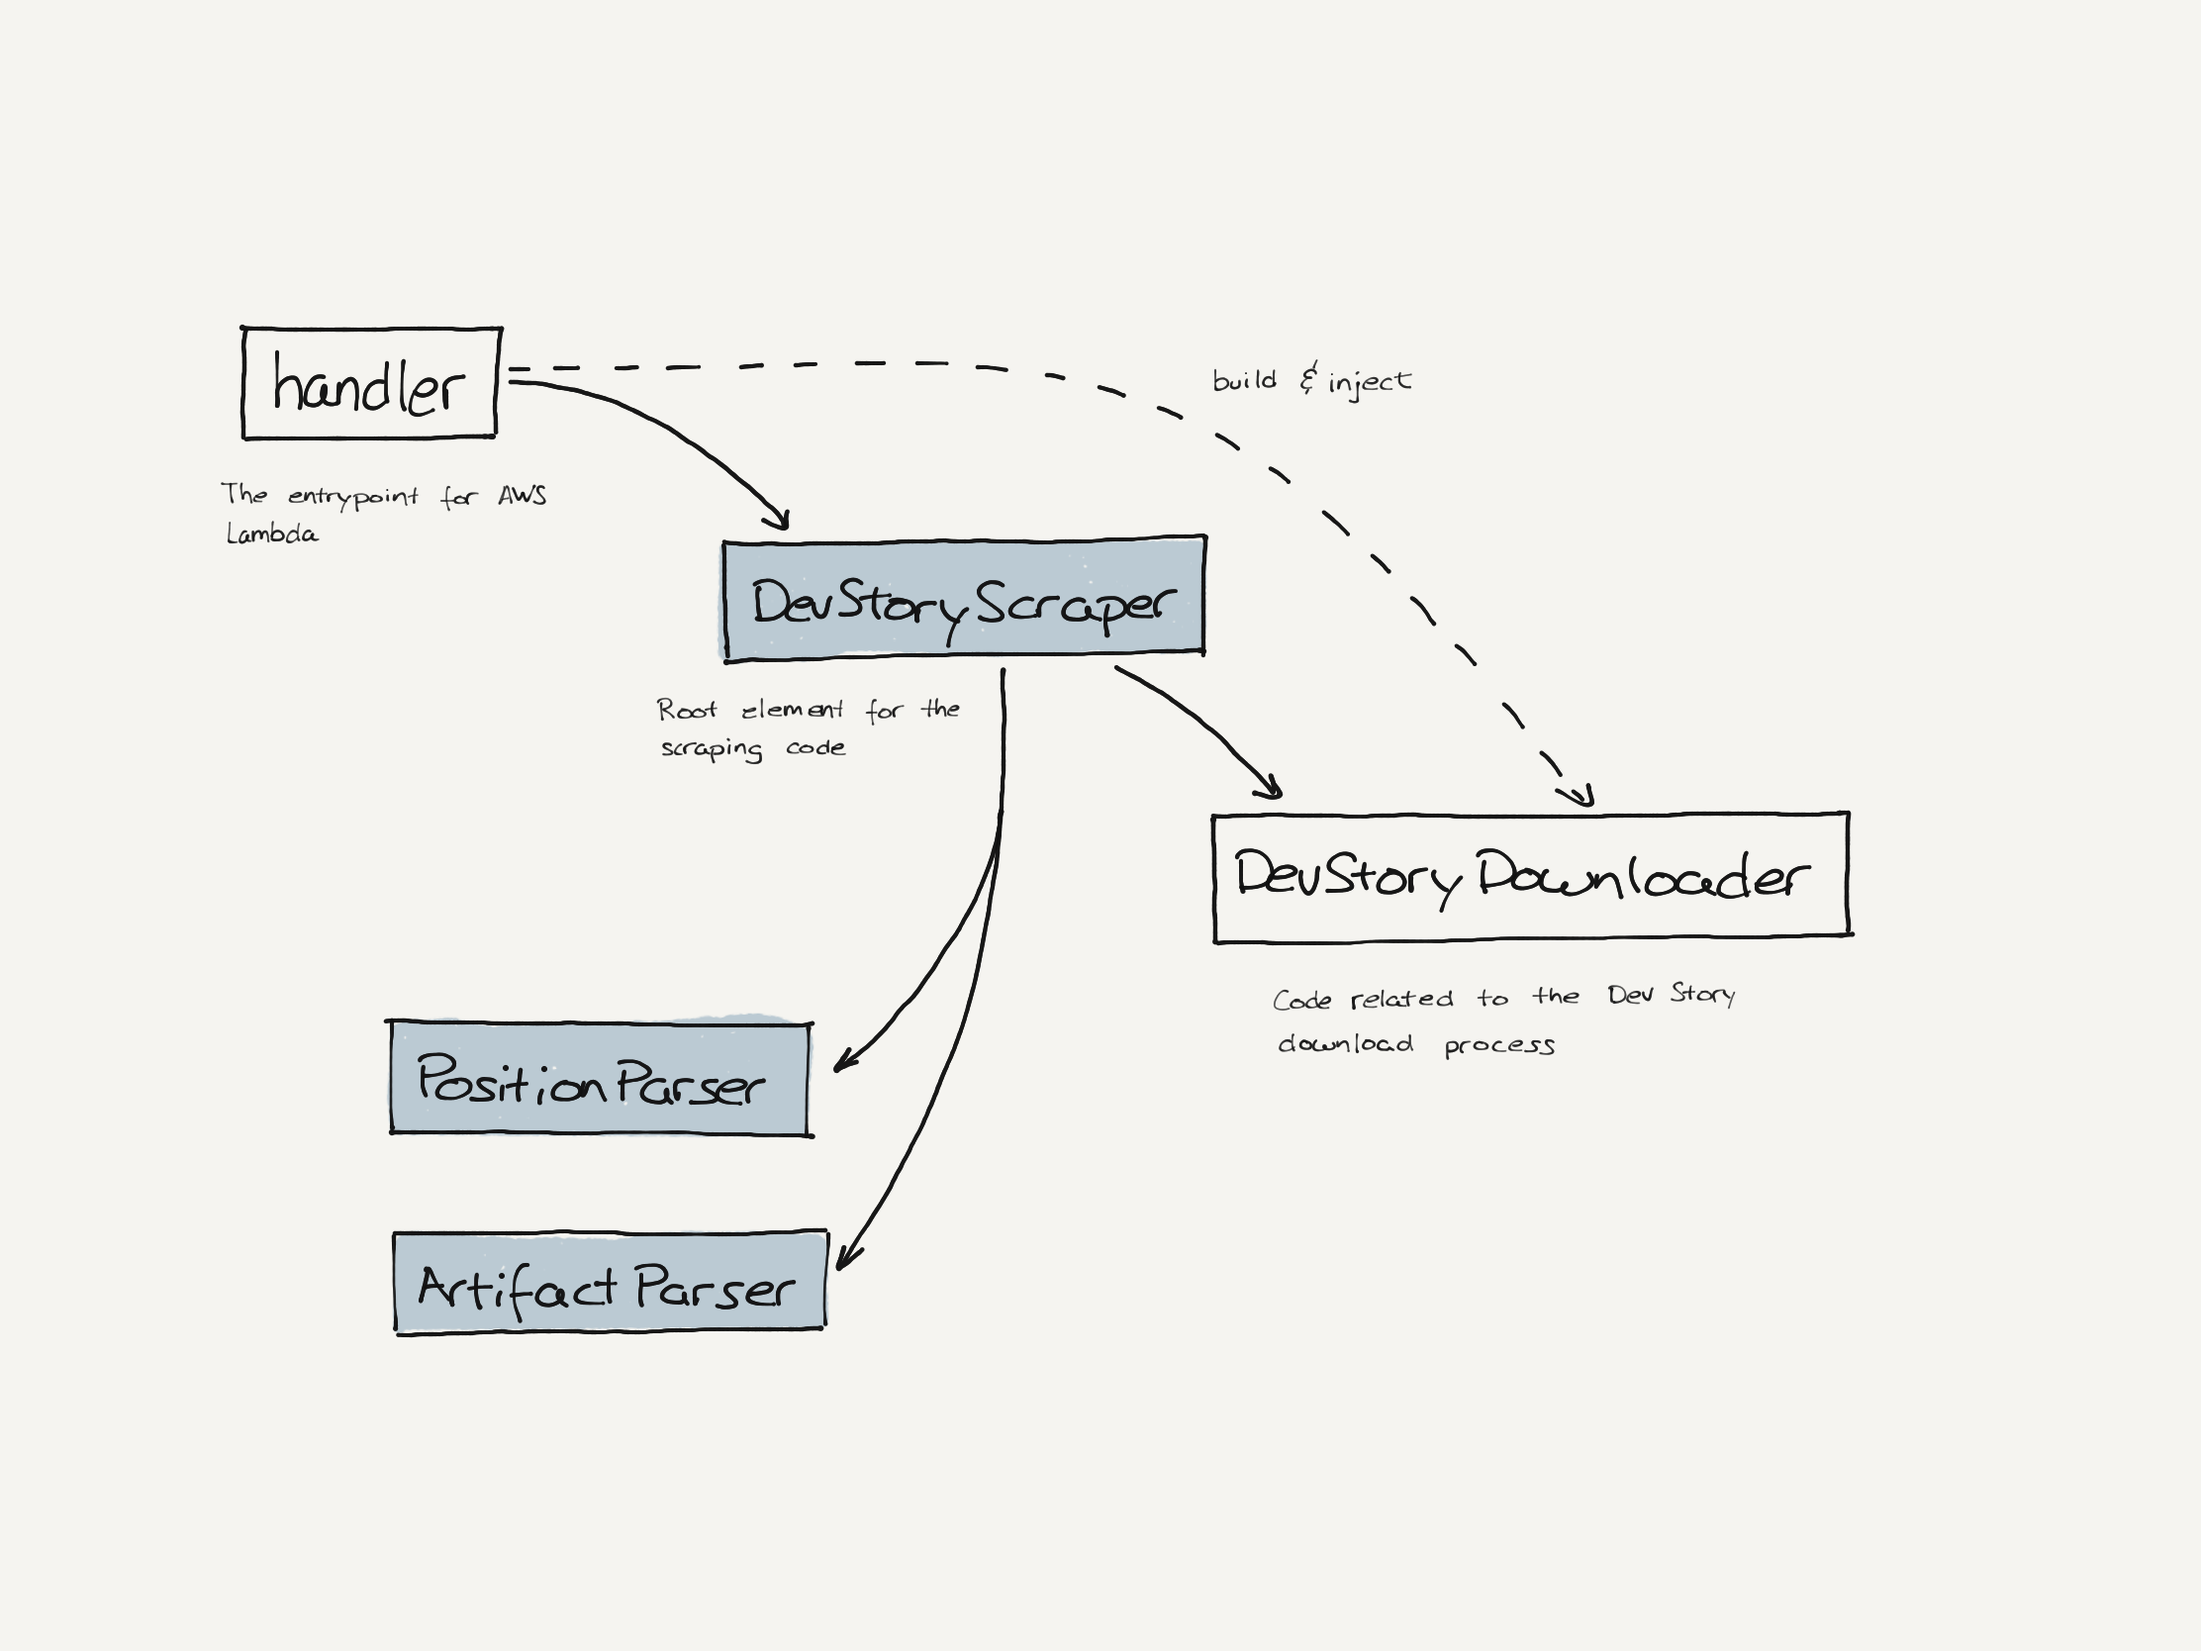
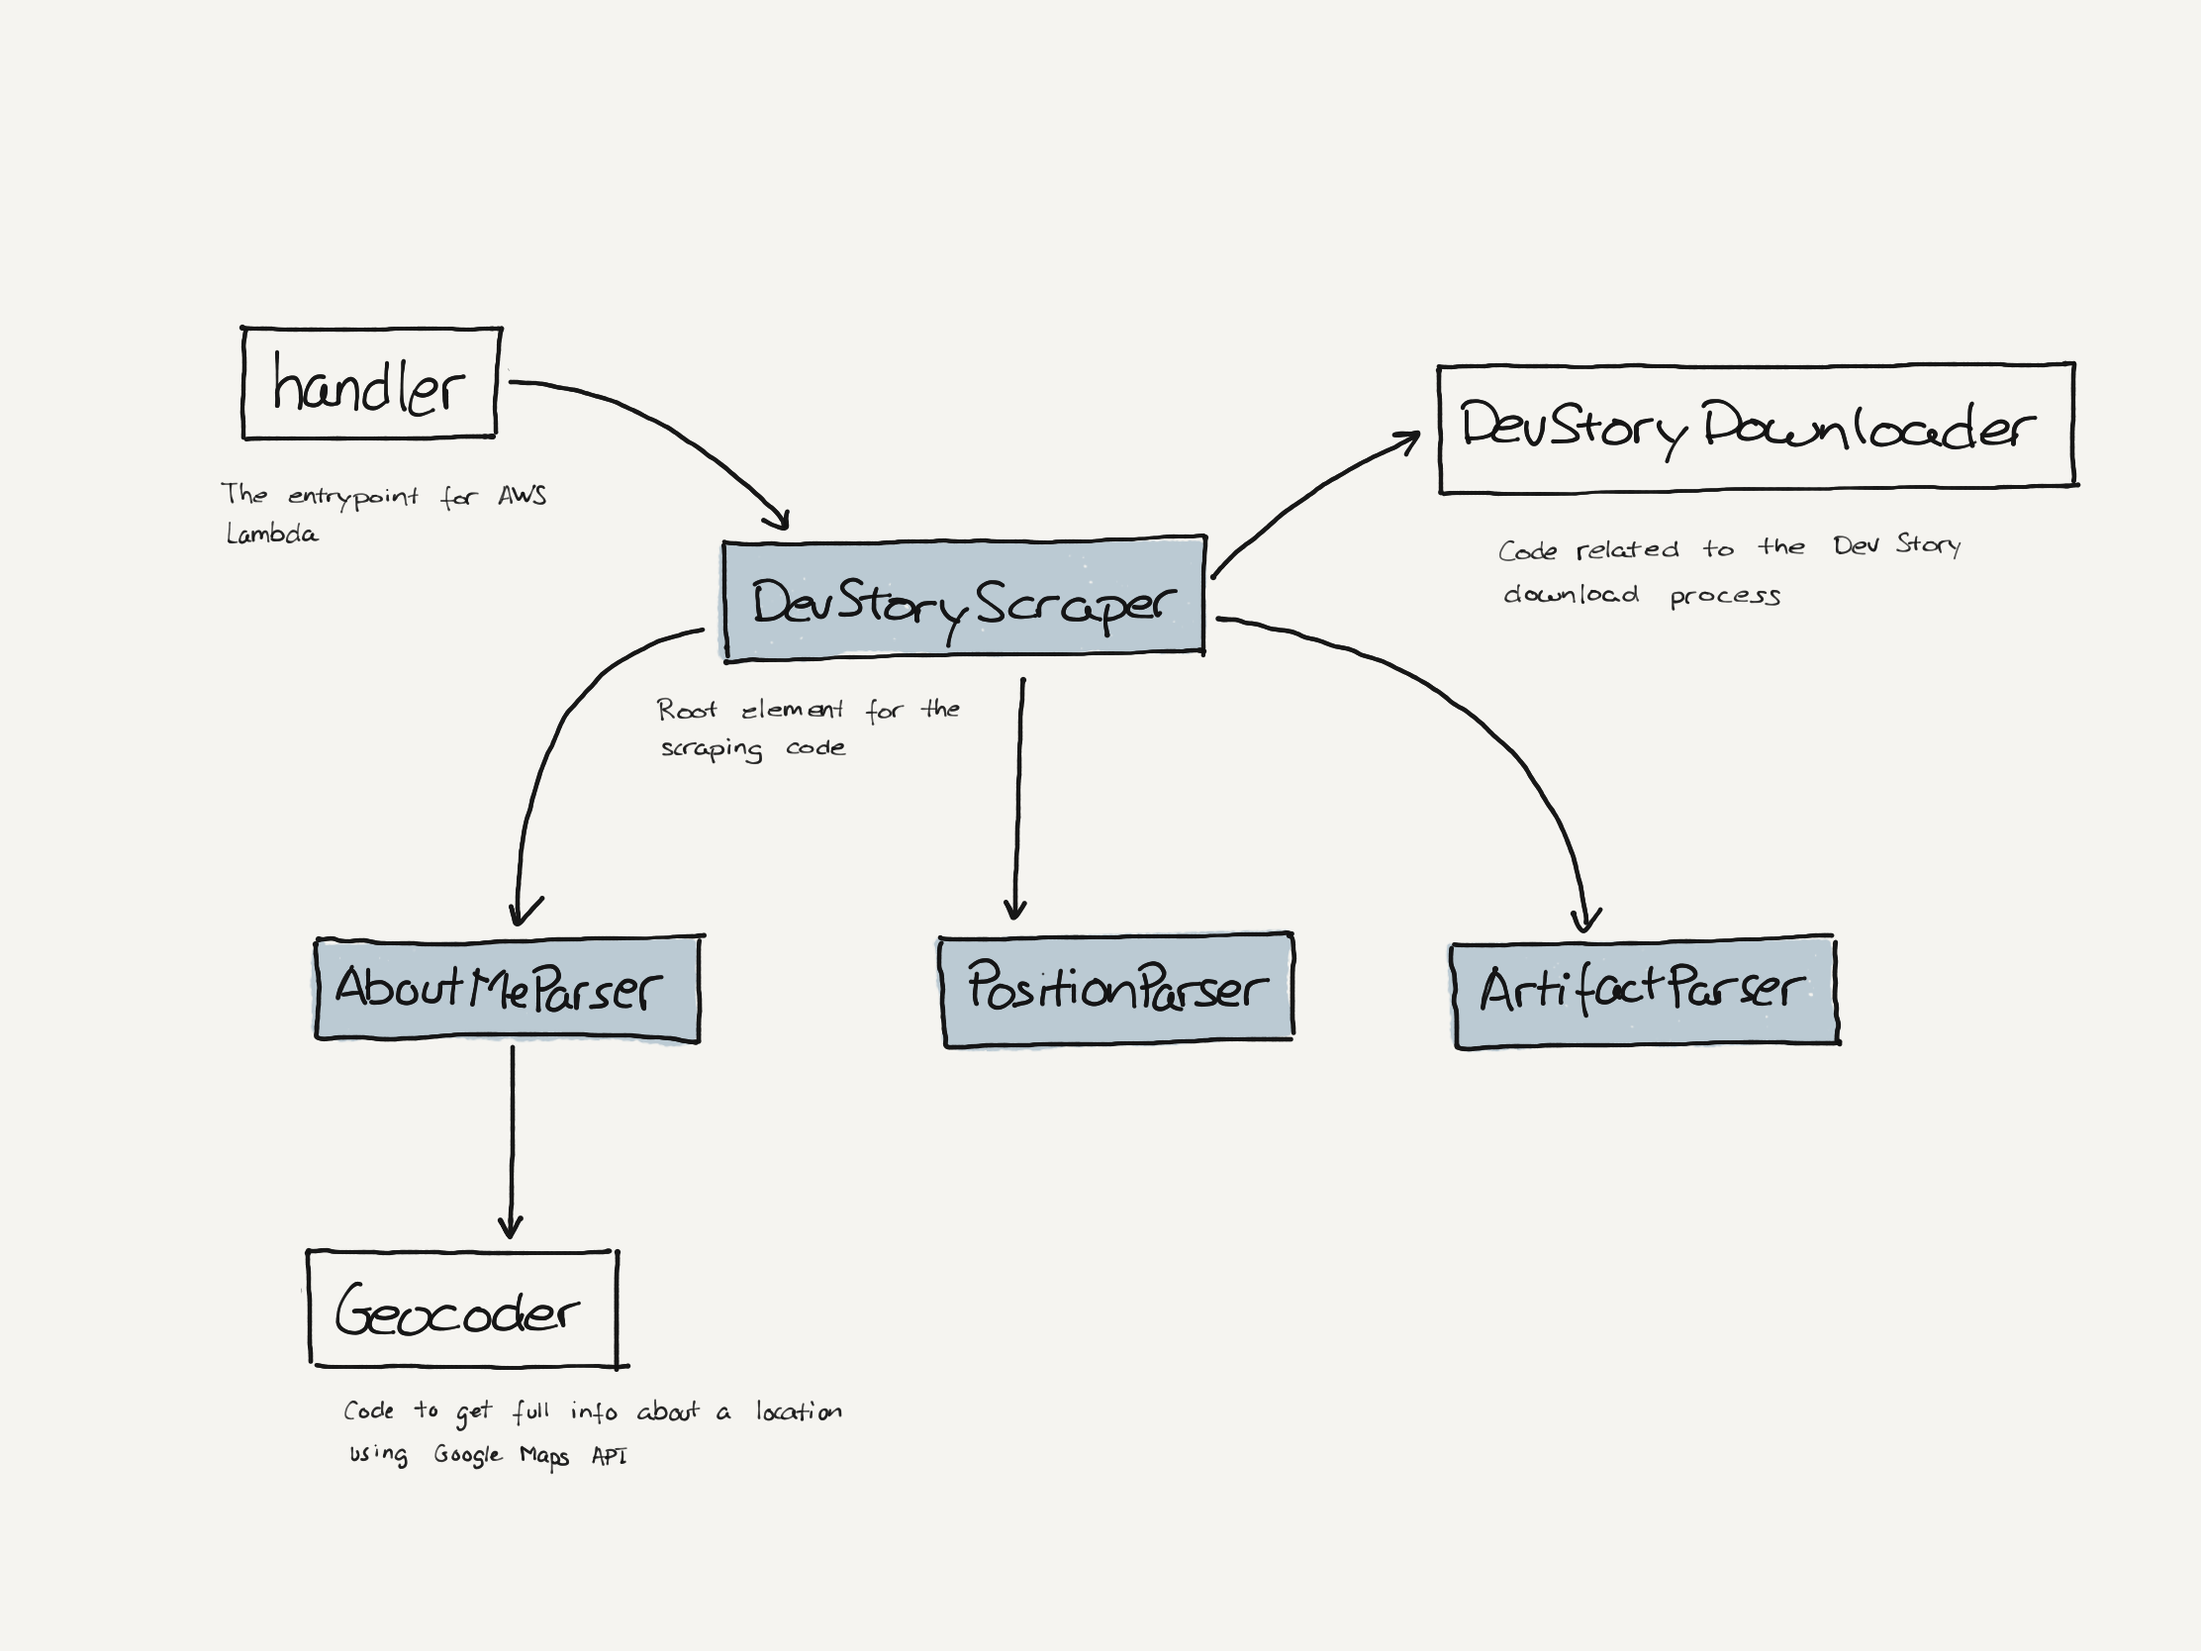
chore: improved readme information

diff --git a/README.md b/README.md
@@ -2,6 +2,10 @@
 
 This project is able to download a dev story from a given username and then scrape the information. The result is a JSON object compliant with Manfred's JSON Schema for a MAC.
 
+## General overview
+
+![General overview diagram](doc/assets/general-overview.png)
+
 ## Code
 
 ![Code organization](doc/assets/code-organization.png)
@@ -14,7 +18,7 @@ This project is able to download a dev story from a given username and then scra
 
 ## Deployment
 
-![Components architecture](doc/assets/components-architecture.png)
+![Components architecture](doc/assets/deployment.png)
 
 We deploy the code at AWS Lambda using GitHub Actions. There are some details we need to take care of, though.
 * The default timeout of a lambda is 3 seconds, and it is too slow for larger dev stories. It is better to increase up to 10 seconds.
@@ -23,5 +27,15 @@ We deploy the code at AWS Lambda using GitHub Actions. There are some details we
 ## Design decisions
 
 To adapt the scraped data to the MAC JSON Schema we took some design decisions.
-* SO uses just a name, to create `name` and `surnames` fields we decided to use the first word as name and the rest as surnames.
-* Location is a free field, so we are using Google Maps API to get more data. `whereILive` field is composed by `country`, `region`, and `municipality` but usually SO only has 2 of those fields.
+
+### Name to name and surnames
+
+Stack Overflow uses just a name, to create `name` and `surnames` fields we decided to use the first word as name and the rest as surnames.
+
+### Location completion
+
+Location is a free field, so we are using Google Maps API to get more data. `whereILive` field is composed by `country`, `region`, and `municipality` but usually SO only has 2 of those fields.
+
+Examples:
+* Tampa, Florida > Tampa, Florida, US
+* Madrid, Spain > Madrid, Community of Madrid, ES
